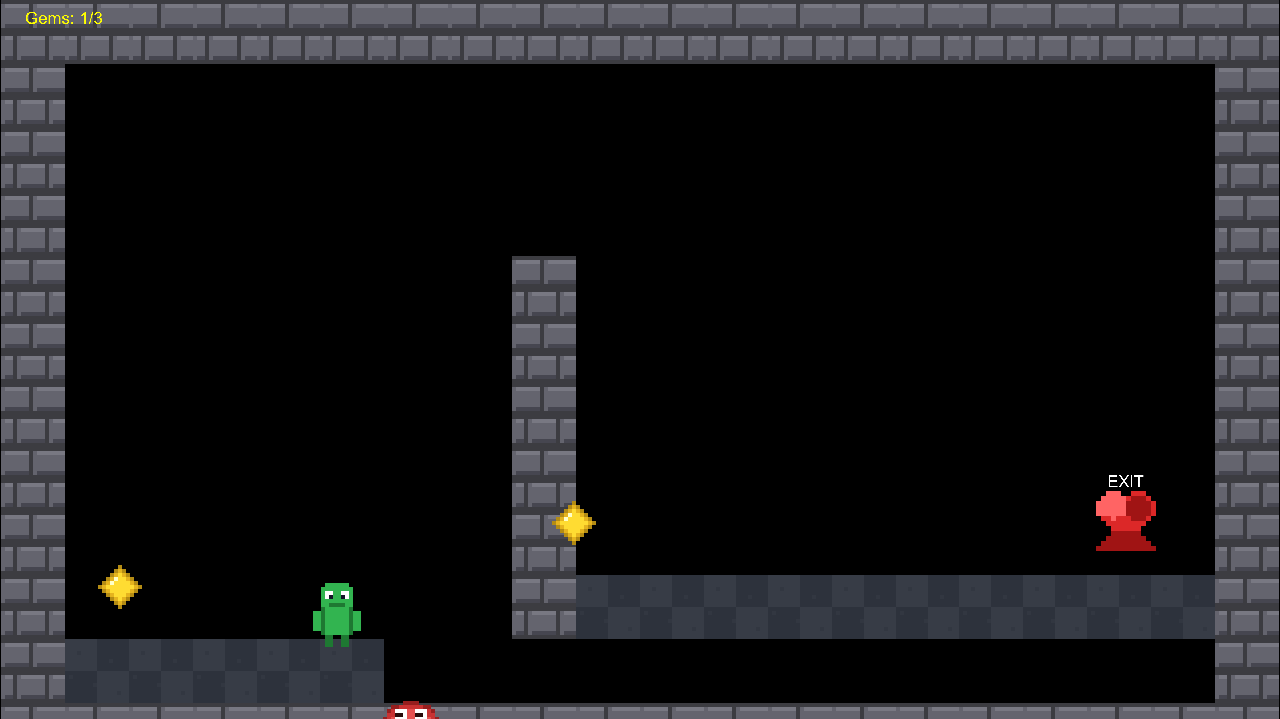
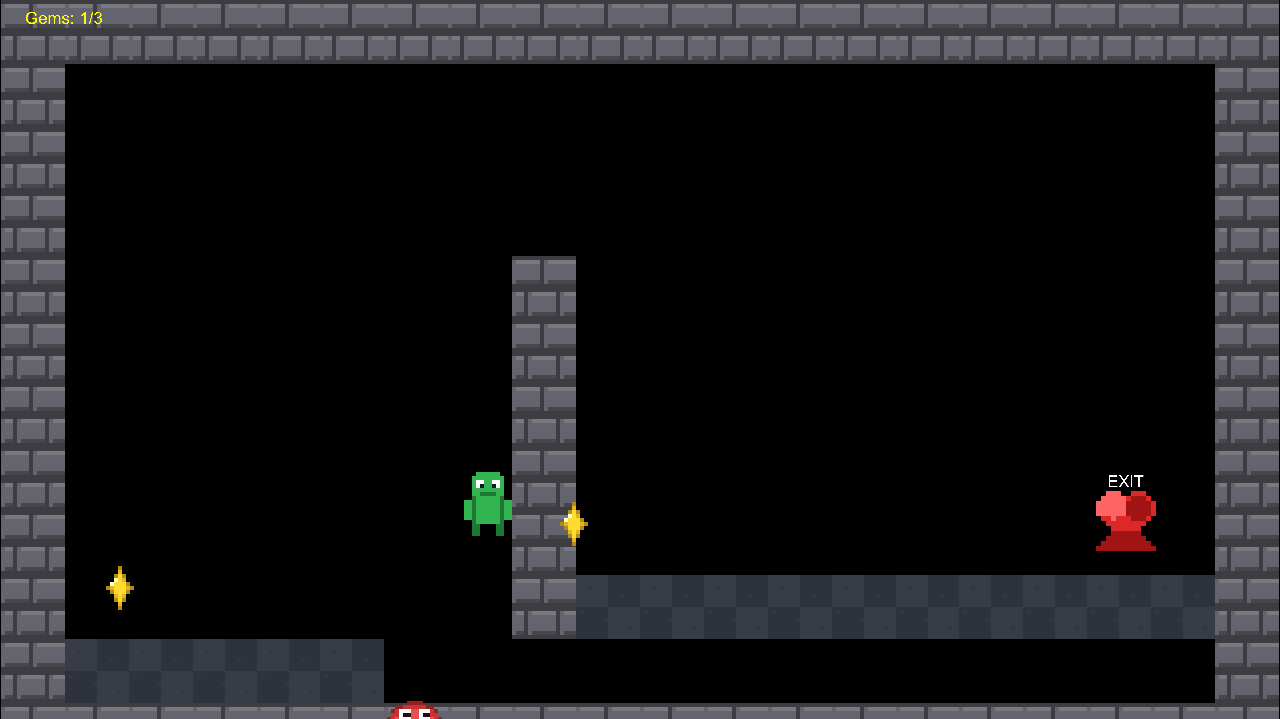
docs(verify): air dash still over the pit for U8
Replace the start-lip dash shot with jump-then-Shift over the hole (y 7.89, x 6.82). Layout and movement unchanged.

diff --git a/.cursor/skills/verify-sapling/features/u8-wall-course.md b/.cursor/skills/verify-sapling/features/u8-wall-course.md
@@ -1,10 +1,10 @@
 # Wall on the course
 
-Climb column at tx=8 (far side of the start pit). Walk off the start ledge to YOU FELL. Dash on the start ledge. Jump, grab the far face, climb, wall-jump toward the heart.
+Climb column at tx=8 (far side of the start pit). Walk off the start ledge to YOU FELL. Jump then Shift so dash is airborne over the pit. Grab the far face, climb, wall-jump toward the heart.
 
 ## Driving (Linux)
 
-- Confirm. `dash press` from spawn: x moves off 3.40, still on the start ledge. `dash.png`.
+- Confirm. Hold `moveRight`, `jump`, then `dash press`: body over the pit, y not floor 9.625. `dash.png`.
 - Walk off the start ledge (no jump): YOU FELL in the hole. `fell.png`.
 - Jump the pit, hold `moveRight` on the far column: y drops at x 7.625. Two states. `climb.png`.
 - Space while on that face: wall-jump toward EXIT, over the pit. `walljump.png`.
